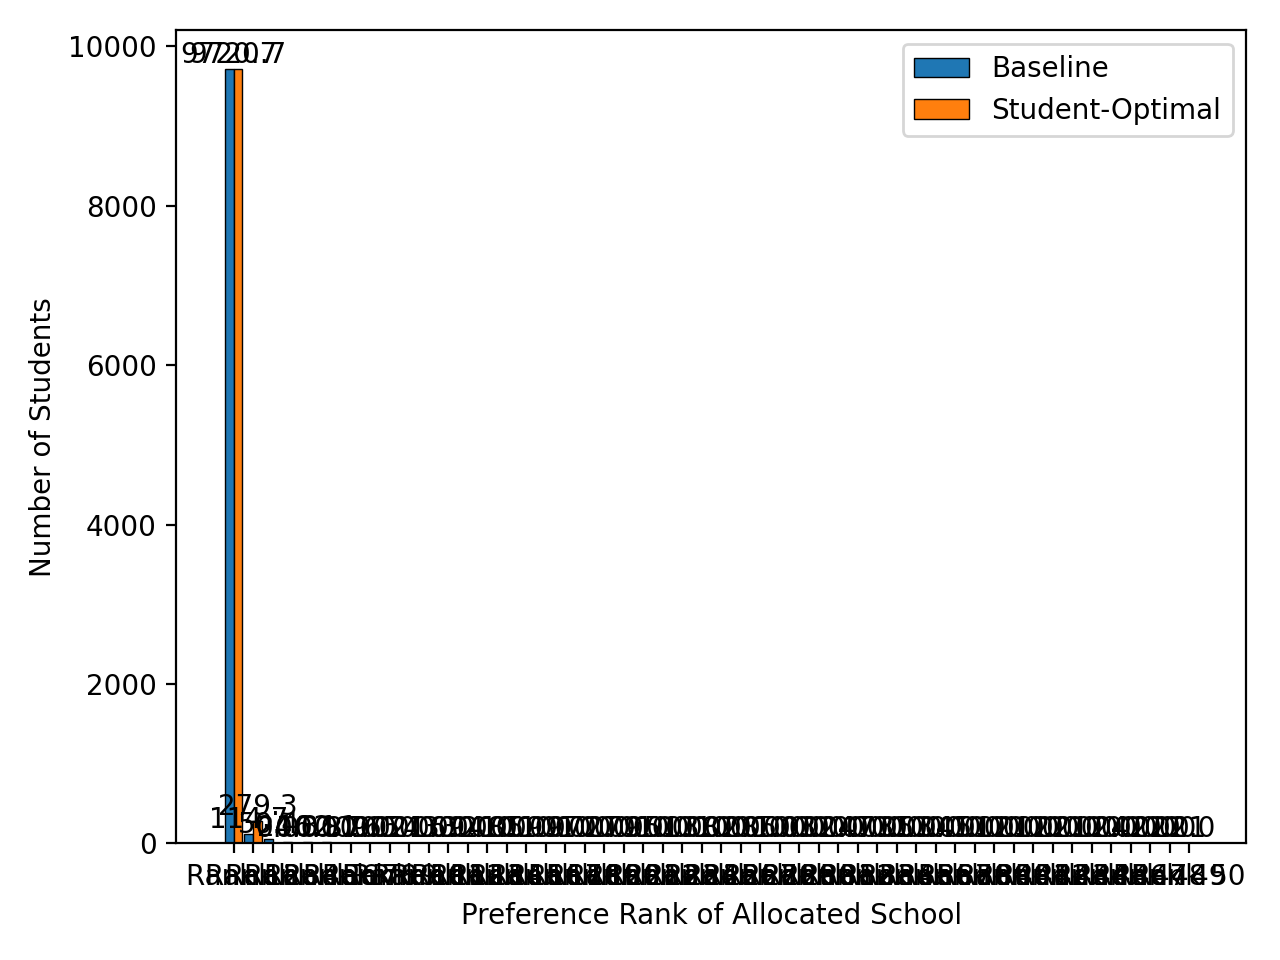
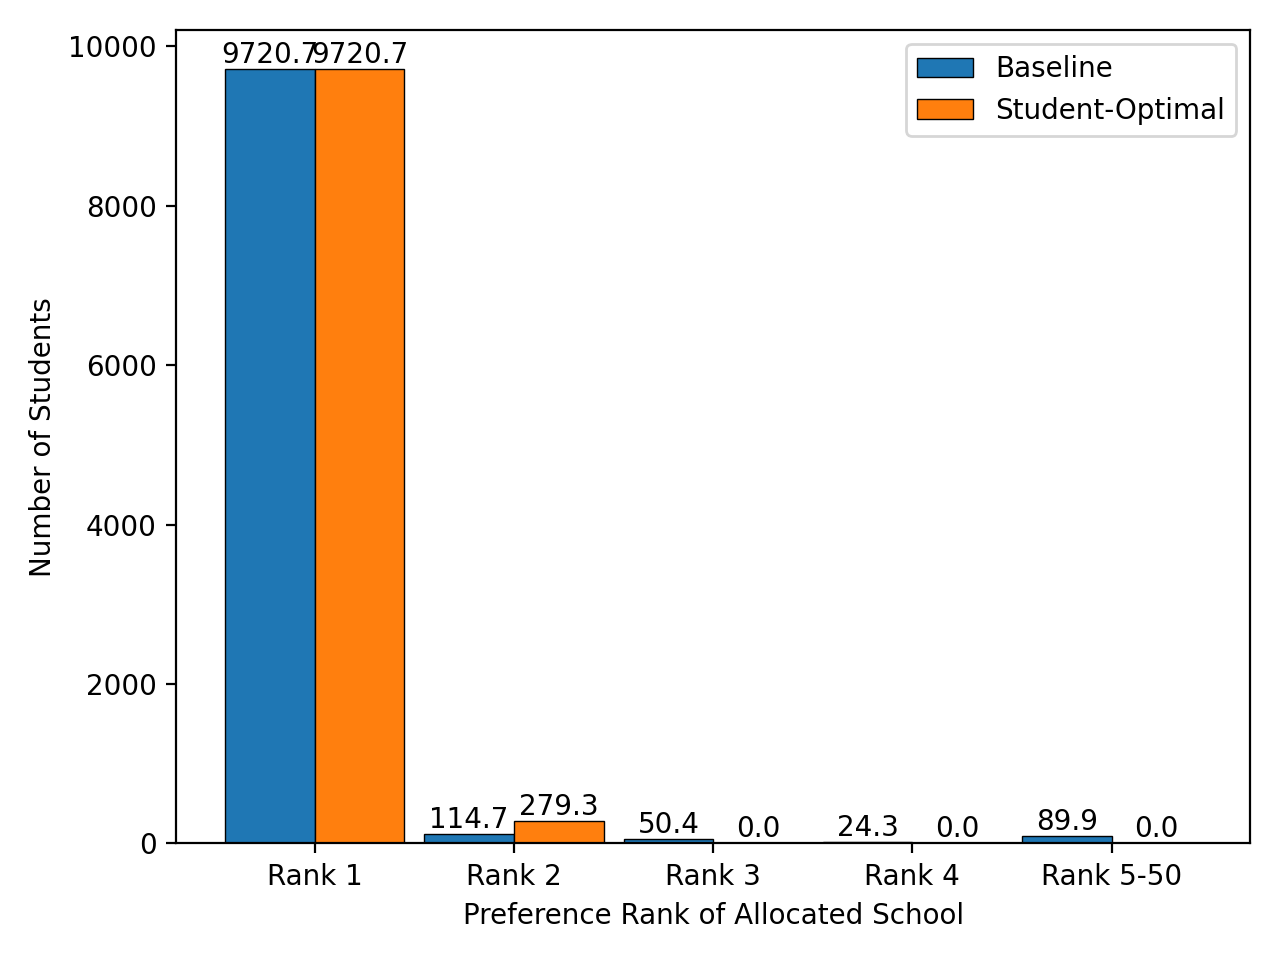
plot number of bars upto max_bar_count

Changed region(s): [[0.125, 0.0312, 1.0, 0.9688], [0.6875, 0.0625, 0.7188, 0.125]]

diff --git a/scripts/plot.py b/scripts/plot.py
@@ -77,6 +77,7 @@ if __name__ == '__main__':
     parser.add_argument('input_path', help='loading allocation result from the path')
     parser.add_argument('output_path', help='saving figures to the path')
     parser.add_argument('--console', action=argparse.BooleanOptionalAction, help='print data to the stdout without saving figures')
+    parser.add_argument('--max_bar_count', type=int, default=5, help='maximum bar count in the figure')
     args = parser.parse_args()
 
     output_filepath = os.path.join(args.output_path,
@@ -88,8 +89,8 @@ if __name__ == '__main__':
             'student' + str(args.student_count) + '_school' + str(args.school_count),
             'student' + str(args.student_count) + '_school' + str(args.school_count) + '_summary.csv')
     summary = read(summary_filepath)
-    utility_optimal, execution_time_optimal = calculate_mean([row for row in summary if row['algorithm'] == 'student_optimal'])
     utility_tb, execution_time_tb = calculate_mean([row for row in summary if row['algorithm'] == 'tie_breaking'])
+    utility_optimal, execution_time_optimal = calculate_mean([row for row in summary if row['algorithm'] == 'student_optimal'])
     time_multiplier, time_unit = (1000, 'ms') if execution_time_optimal < 1.0 else (1, 's')
     print(utility_optimal, execution_time_optimal * time_multiplier, time_unit)
     print(utility_tb, execution_time_tb * time_multiplier, time_unit)
@@ -98,8 +99,9 @@ if __name__ == '__main__':
         figure_utility_filepath = os.path.join(output_filepath,
                 'student' + str(args.student_count) + '_school' + str(args.school_count) + '_utility.png')
         z = len(utility_tb)
-        plot(['Rank ' + str(pref + 1) for pref in range(z)],
-                [
+        if z <= args.max_bar_count:
+            x = ['Rank ' + str(pref + 1) for pref in range(z)]
+            y = [
                     (
                         LABEL_TIE_BREAKING,
                         [utility_tb['pref_' + str(pref)] for pref in range(z)],
@@ -108,7 +110,23 @@ if __name__ == '__main__':
                         LABEL_STUDENT_OPTIMAL,
                         [utility_optimal['pref_' + str(pref)] for pref in range(z)],
                         ),
-                    ],
+                    ]
+        else:
+            x = ['Rank ' + str(pref + 1) for pref in range(args.max_bar_count - 1)] + ['Rank ' + str(args.max_bar_count) + '-' + str(z)]
+            util_tb = [utility_tb['pref_' + str(pref)] for pref in range(z)]
+            util_optimal = [utility_optimal['pref_' + str(pref)] for pref in range(z)]
+            y = [
+                    (
+                        LABEL_TIE_BREAKING,
+                        util_tb[:args.max_bar_count - 1] + [sum(util_tb[args.max_bar_count - 1:])],
+                        ),
+                    (
+                        LABEL_STUDENT_OPTIMAL,
+                        util_optimal[:args.max_bar_count - 1] + [sum(util_optimal[args.max_bar_count - 1:])],
+                        ),
+                    ]
+
+        plot(x, y,
                 figure_utility_filepath,
                 xlabel='Preference Rank of Allocated School',
                 ylabel='Number of Students',

diff --git a/README.md b/README.md
@@ -22,8 +22,8 @@
 
 ## Figures
 - `figures/student{n}_school{m}`: n students and m schools
-- `student{n}_school{m}_utility.png`: figure of qualitative utility with n students and m schools
-- `student{n}_school{m}_execution_time.png`: figure of execution time with n students and m schools
+- `student{n}_school{m}_utility.png`: figure of qualitative utility
+- `student{n}_school{m}_execution_time.png`: figure of execution time
 
 ## Generate Input Data
 ```
